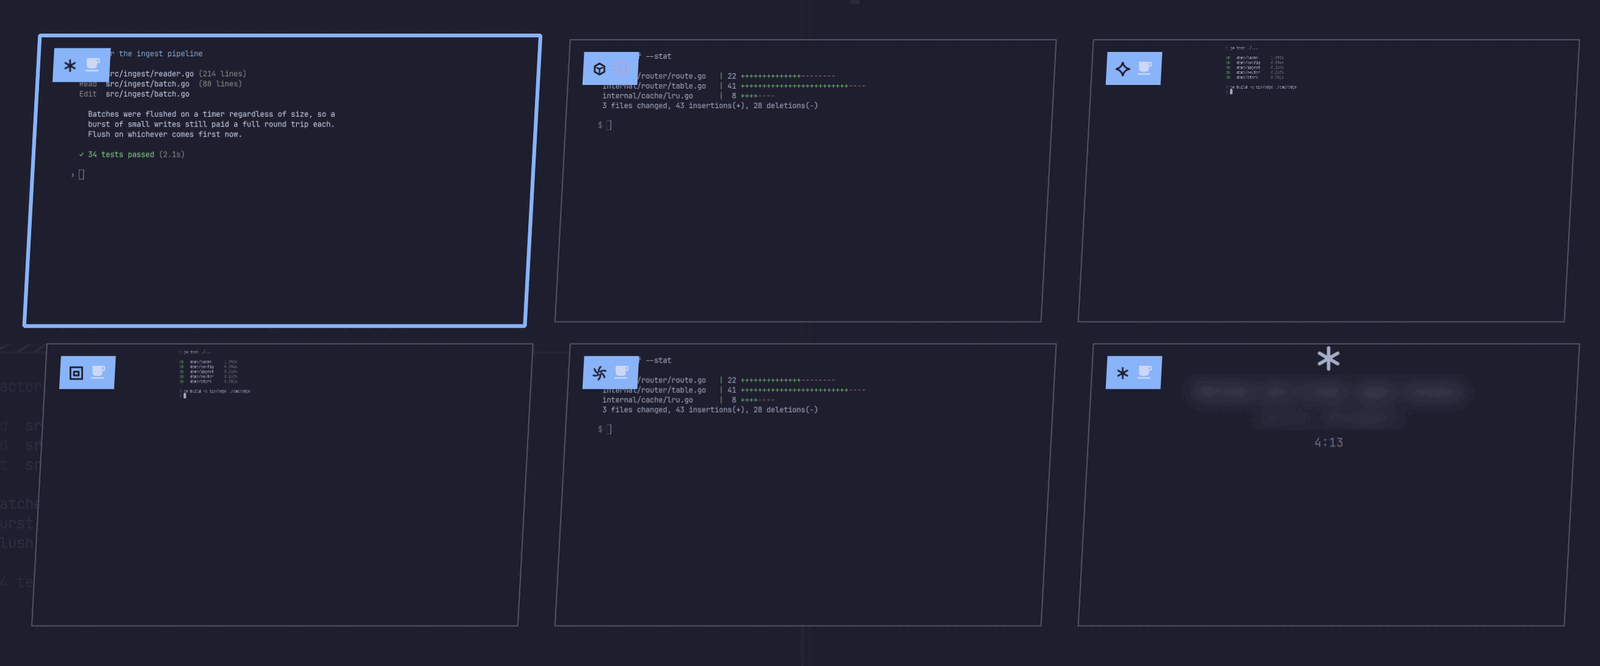
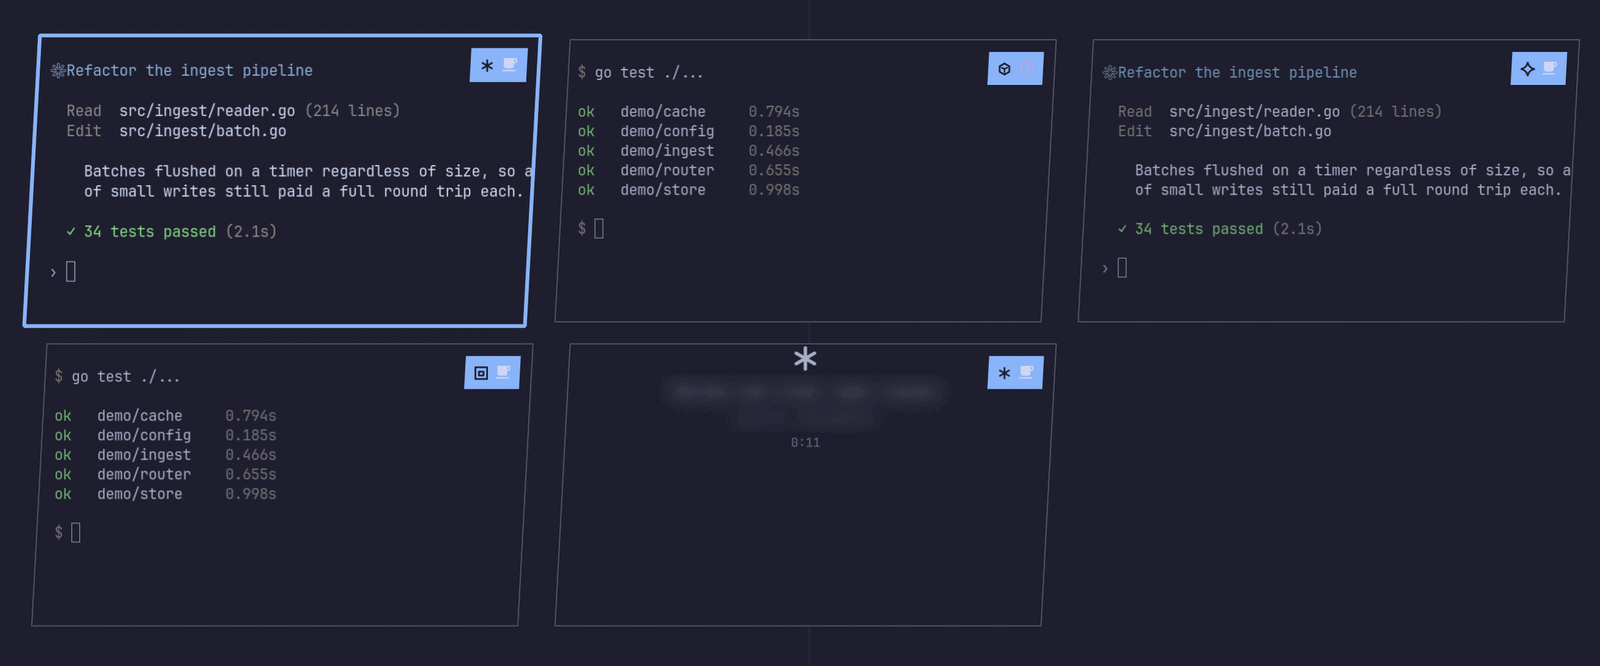
Zoom screencopy previews instead of shrinking the whole window
A screencopy slab filled itself with the entire captured window, so a
full-screen terminal previewed at roughly a third native and its text became
texture. This is the same failure the text preview stopped doing two commits
ago; only the pixel path still shrank to fit.

Scale to fit while the fit stays legible, then hold a floor of 0.5 native and
crop. The floor is what makes the deck responsive to pot count: adding pots
shrinks every slab, and past the floor a slab shows LESS of its window rather
than the same window smaller.

Anchored top-left, deliberately not bottom-left like the text preview. Text
reads a pane's scrollback, where the tail is the newest output; a screencopy
captures the viewport, whose top is already recent and whose lower half is the
blank remainder of a partly-filled screen. Bottom-anchoring framed that blank
— verified by doing it and getting empty slabs.

Moved the identity chip to the top-right in the same pass. Terminal output is
left-anchored and ragged-right, so the left corner is exactly where the first
line lands: the chip was covering it in every screencopy slab. Stage's own
chip sits left because a wallpaper thumbnail has no such bias.

Screenshot reshot against the fixed rendering.

diff --git a/StageView.qml b/StageView.qml
@@ -84,6 +84,12 @@ Item {
     root.previewAspect, root.gridGap)
   readonly property int gridCols: Math.max(1, gridFit.cols)
 
+  // Floor for a screencopy preview's scale, the pixel counterpart of the text
+  // preview's optical zoom. Below roughly half native a terminal capture stops
+  // being readable and starts being texture, so slabs smaller than that crop
+  // instead of shrinking further.
+  readonly property real minPreviewScale: 0.5
+
   // Shear slope shared by every parallelogram (28px over a 519px reference
   // height), so skewed edges stay parallel at any slab size. Copied from
   // Stage verbatim — deliberately not re-derived, so the visual language
@@ -537,7 +543,12 @@ Item {
     Item {
       id: chip
       visible: slab.pot !== null
-      x: slab.skew + Style.space(10)
+      // Top-RIGHT, not top-left. A preview's content is a terminal, which is
+      // left-anchored and ragged-right, so the left corner is exactly where
+      // the first line of output lands and the right corner is reliably
+      // empty. Stage's own chip sits left because a wallpaper thumbnail has
+      // no such bias.
+      x: slab.topRight - width - Style.space(10)
       y: Style.space(10)
       width: chipRow.implicitWidth + Style.space(16)
       height: chipRow.implicitHeight + Style.space(8)
@@ -630,19 +641,45 @@ Item {
     Component {
       id: screencopyContent
       Item {
+        id: shot
         readonly property var topl: root.toplevelFor(slab.previewSource.windowAddr)
+        readonly property real inset: slab.selected ? 1 : 0
+        clip: true
 
         // Live only while the overlay is open — captureSource goes null the
         // moment `opened` flips false, same gate Stage uses (Stage.qml:425).
         ScreencopyView {
-          anchors.fill: parent
-          anchors.margins: slab.selected ? 1 : 0
-          captureSource: (root.opened && topl && topl.wayland) ? topl.wayland : null
+          id: capture
+          captureSource: (root.opened && shot.topl && shot.topl.wayland) ? shot.topl.wayland : null
           live: true
+
+          // Filling the slab scaled a whole window down to slab width, which
+          // for a full-screen terminal is about a third native — the same
+          // illegibility the text preview stopped shrinking into. Fit while
+          // the fit stays readable, then hold the floor and crop, so more
+          // pots means each slab shows LESS of its window rather than the
+          // same window smaller.
+          readonly property real fit:
+            (sourceSize.width > 0 && shot.width > 0)
+              ? (shot.width - 2 * shot.inset) / sourceSize.width : 1
+          readonly property real zoom: Math.max(fit, root.minPreviewScale)
+
+          width: sourceSize.width > 0
+            ? sourceSize.width * zoom : shot.width - 2 * shot.inset
+          height: sourceSize.height > 0
+            ? sourceSize.height * zoom : shot.height - 2 * shot.inset
+
+          // Top-left, NOT the tail. A screencopy captures the terminal's
+          // viewport rather than its scrollback, so the top of the capture is
+          // already recent output, while the region below the prompt is the
+          // blank remainder of a partly-filled screen. Anchoring to the bottom
+          // the way the text preview does frames that blank.
+          x: shot.inset
+          y: shot.inset
         }
 
         Text {
-          visible: !topl
+          visible: !shot.topl
           anchors.centerIn: parent
           text: "window not found"
           color: Util.alpha(root.pickerText, 0.6)
